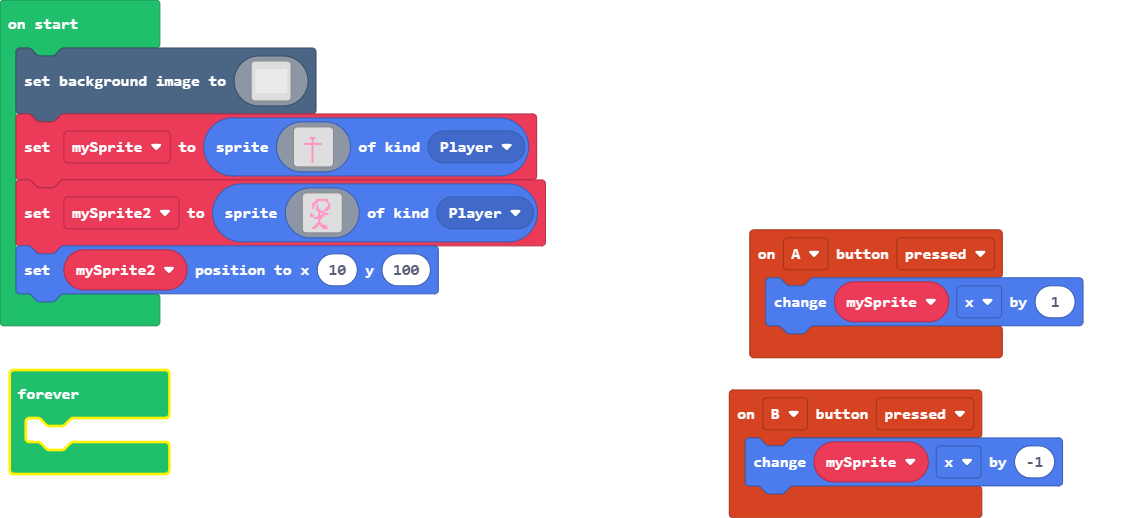
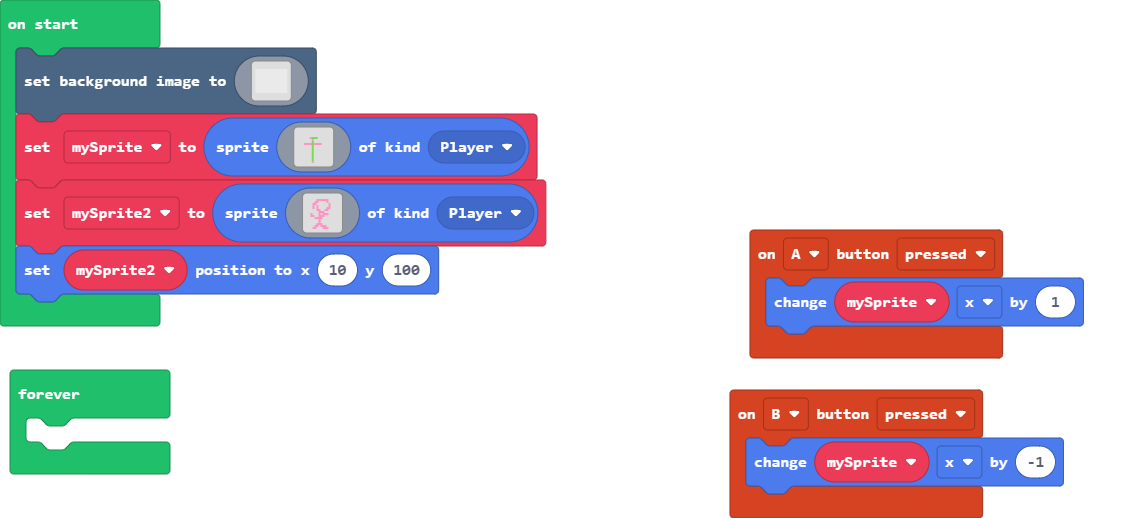
Update pxt.json, main.blocks, main.ts

diff --git a/main.ts b/main.ts
@@ -131,18 +131,18 @@ mySprite = sprites.create(img`
     . . . . . . . . . . . . . . . . 
     . . . . . . . . . . . . . . . . 
     . . . . . . . . . . . . . . . . 
-    . . . . . . 3 3 3 . . . . . . . 
+    . . . . . . 3 7 7 7 . . . . . . 
     . . . . . . . 3 . . . . . . . . 
-    . . . . . . . 3 . . . . . . . . 
-    . . . 3 3 3 3 3 3 3 3 3 . . . . 
-    . . . . . . . 3 . . . . . . . . 
-    . . . . . . . 3 . . . . . . . . 
-    . . . . . . . 3 . . . . . . . . 
-    . . . . . . . 3 . . . . . . . . 
-    . . . . . . . 3 . . . . . . . . 
-    . . . . . . . 3 . . . . . . . . 
-    . . . . . . . 3 . . . . . . . . 
-    . . . . . . . 3 . . . . . . . . 
+    . . . . . . . 7 . . . . . . . . 
+    . . . 3 3 3 3 7 3 3 3 3 . . . . 
+    . . . . . . . 7 . . . . . . . . 
+    . . . . . . . 7 . . . . . . . . 
+    . . . . . . . 7 . . . . . . . . 
+    . . . . . . . 7 . . . . . . . . 
+    . . . . . . . 7 . . . . . . . . 
+    . . . . . . . 7 . . . . . . . . 
+    . . . . . . . 7 . . . . . . . . 
+    . . . . . . . 7 . . . . . . . . 
     . . . . . . . 3 . . . . . . . . 
     `, SpriteKind.Player)
 let mySprite2 = sprites.create(img`
